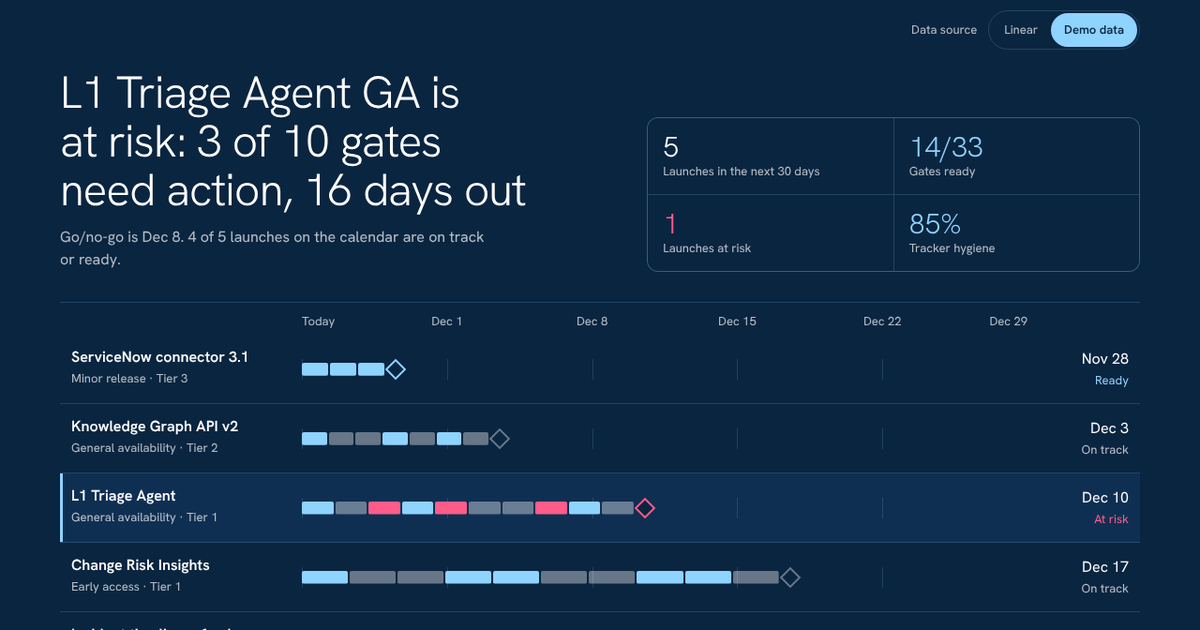
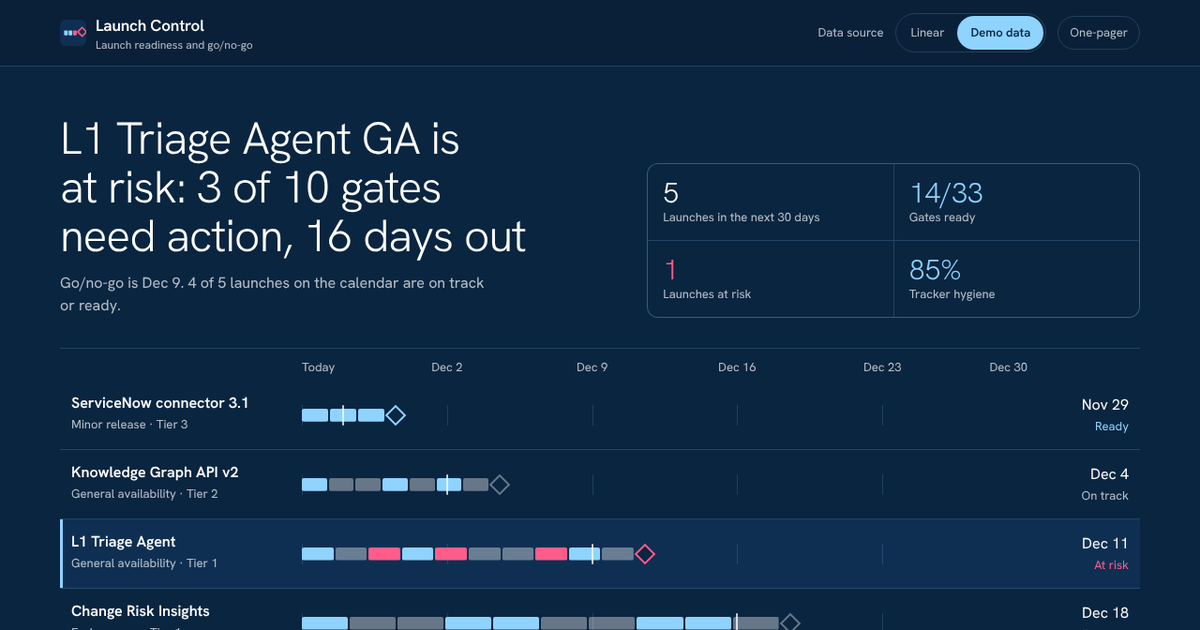
Launch Control: design polish (brand bar, focused gates, alert callout, go/no-go tick, working state)
Claude-Session: https://claude.ai/code/session_013sHT36BU3TUaCrTkGbxy9j

diff --git a/launch-control/components/lc.module.css b/launch-control/components/lc.module.css
@@ -118,3 +118,32 @@
 .alerts{border-top:1px solid var(--edge);margin-top:4px;padding-top:14px}
 .alerts h3{font-size:15px;font-weight:600;margin:0}
 .alerts .fixlist small{font-size:13px;line-height:1.45}
+
+/* Design polish (Nov 25) */
+.topbar{padding:14px max(5vw,16px);border-bottom:1px solid var(--edge);background:rgba(8,30,52,.6)}
+.topin{max-width:1240px;margin:0 auto;display:flex;flex-wrap:wrap;align-items:center;justify-content:space-between;gap:12px 20px}
+.brand{display:flex;align-items:center;gap:10px;color:var(--ink);text-decoration:none}
+.brand svg{width:28px;height:28px;flex:none}
+.brand b{font-size:17px;font-weight:600;letter-spacing:-.01em}
+.brand small{display:block;font-size:12px;line-height:1.2}
+.topright{display:flex;flex-wrap:wrap;align-items:center;gap:8px 12px;font-size:13px;color:var(--mut)}
+.toplink{color:var(--mut);text-decoration:none;border:1px solid var(--edge);border-radius:999px;padding:6px 12px;min-height:36px;display:inline-flex;align-items:center}
+.toplink:hover{color:var(--ink);border-color:var(--sky)}
+.srcbar{margin-bottom:0}
+.alertbox{border:1px solid rgba(255,92,138,.45);background:rgba(255,92,138,.06);border-radius:12px;padding:12px 14px;margin:0 0 16px}
+.alertbox h3{font-size:15px;font-weight:600;margin:0;display:flex;align-items:center;gap:8px}
+.alertbox h3::before{content:"";width:8px;height:8px;border-radius:50%;background:var(--pink)}
+.alertbox .btns{margin:10px 0 0}
+.alertbox .how{margin-top:8px;border-top:0;padding-top:0}
+.collapsedNote{font-size:13px;color:var(--mut);margin:10px 0 0}
+.gng{position:absolute;top:0;width:2px;height:22px;margin-left:-1px;background:rgba(255,255,255,.75);border-radius:1px;pointer-events:none}
+.legend .gngKey{display:inline-block;width:2px;height:12px;background:rgba(255,255,255,.75);margin-right:6px;vertical-align:-1px}
+@media(prefers-reduced-motion:no-preference){
+ .working::after{content:"";display:inline-block;width:8px;height:8px;margin-left:10px;border-radius:50%;background:#0a2540;vertical-align:1px;animation:pulse 1s ease-in-out infinite}
+ @keyframes pulse{0%,100%{opacity:.25;transform:scale(.8)}50%{opacity:1;transform:scale(1.1)}}
+ .trace li{animation:fadein .35s ease-out both}
+ @keyframes fadein{from{opacity:0;transform:translateY(3px)}to{opacity:1;transform:none}}
+ .thinking{animation:breathe 1.4s ease-in-out infinite}
+ @keyframes breathe{0%,100%{opacity:.45}50%{opacity:1}}
+}
+@media(max-width:600px){.brand small{display:none}.gng{height:22px}}

diff --git a/launch-control/components/LaunchControl.tsx b/launch-control/components/LaunchControl.tsx
@@ -454,8 +454,22 @@ export default function LaunchControl() {
 
   return (
     <>
-      <section className={cx('band')}>
-        <div className={cx('wrap')}>
+      <header className={cx('topbar')}>
+        <div className={cx('topin')}>
+        <a className={cx('brand')} href="/" aria-label="Launch Control home">
+          <svg viewBox="0 0 64 64" aria-hidden="true">
+            <rect width="64" height="64" rx="14" fill="#0f2f52" />
+            <rect x="10" y="26" width="9" height="12" rx="2" fill="#8fd3ff" />
+            <rect x="21" y="26" width="9" height="12" rx="2" fill="#8fd3ff" />
+            <rect x="32" y="26" width="9" height="12" rx="2" fill="#ff5c8a" />
+            <rect x="44" y="21" width="15" height="15" transform="rotate(45 51.5 32)" fill="#0f2f52" stroke="#ff5c8a" strokeWidth="3.5" />
+          </svg>
+          <span>
+            <b>Launch Control</b>
+            <small>Launch readiness and go/no-go</small>
+          </span>
+        </a>
+        <div className={cx('topright')}>
           <div className={cx('srcbar')}>
             <span id="src-label">Data source</span>
             <span className={cx('toggle')} role="group" aria-labelledby="src-label">
@@ -473,6 +487,15 @@ export default function LaunchControl() {
             )}
             {source === 'demo' && loading && <span role="status">Loading…</span>}
           </div>
+          <a className={cx('toplink')} href="/one-pager">
+            One-pager
+          </a>
+        </div>
+        </div>
+      </header>
+
+      <section className={cx('band')}>
+        <div className={cx('wrap')}>
           {snap.notice && (
             <p className={cx('notice')} role="status">
               <b>Heads up:</b> {snap.notice}

diff --git a/launch-control/components/GatesPanel.tsx b/launch-control/components/GatesPanel.tsx
@@ -70,7 +70,7 @@ export interface AlertProps {
 function RiskAlerts({ a, launchId }: { a: AlertProps; launchId: string }) {
   const n = a.noTicketGates.length;
   return (
-    <div className={cx('alerts')}>
+    <div className={cx('alertbox')}>
       <h3>Risk alerts</h3>
       <ReviewList
         key={launchId}
@@ -124,9 +124,15 @@ export default function GatesPanel({
       <div className={cx('meter')}>
         <i style={{ width: `${(info.ready / info.n) * 100}%` }} />
       </div>
+      {alerts && <RiskAlerts a={alerts} launchId={L.id} />}
       <div>
         {info.gates.map((g) => (
-          <details key={`${L.id}-${g.gate.key}`} className={cx('gate', g.state)} open={g.state !== 'ready'}>
+          <details
+            key={`${L.id}-${g.gate.key}`}
+            className={cx('gate', g.state)}
+            // Focus on what needs action: open the at-risk gates; if none, open what's in progress.
+            open={info.risk ? g.state === 'risk' : g.state === 'prog'}
+          >
             <summary>
               <span className={cx('dot')} />
               <span className={cx('gn')}>{g.gate.name}</span>
@@ -147,7 +153,9 @@ export default function GatesPanel({
           </details>
         ))}
       </div>
-      {alerts && <RiskAlerts a={alerts} launchId={L.id} />}
+      {info.risk > 0 && info.gates.some((g) => g.state === 'prog') && (
+        <p className={cx('collapsedNote')}>Gates in progress are collapsed so the risks stand out. Open any gate to see its tickets.</p>
+      )}
       <p className={cx('how')}>
         {onCycle
           ? 'Tap a status pill to move an issue along (Backlog → In progress → In review → Done → Blocked). Gates, the calendar and the brief update live.'

diff --git a/launch-control/components/Calendar.tsx b/launch-control/components/Calendar.tsx
@@ -38,6 +38,7 @@ export default function Calendar({
           const L = x.launch;
           const on = L.id === selected;
           const w = (Math.min(Math.max(x.daysOut, 0), AXIS_DAYS) / AXIS_DAYS) * 100;
+          const gng = x.daysOut - 2 > 0 && x.daysOut <= AXIS_DAYS ? ((x.daysOut - 2) / AXIS_DAYS) * 100 : null;
           return (
             <button
               key={L.id}
@@ -60,6 +61,7 @@ export default function Calendar({
                   ))}
                 </span>
                 <span className={cx('mk', x.state)} style={{ left: `${w}%` }} />
+                {gng != null && <span className={cx('gng')} style={{ left: `${gng}%` }} title={`Go/no-go ${fmtDate(x.goNoGo)}`} />}
               </span>
               <span className={cx('dt')}>
                 {fmtDate(L.launchDate)}
@@ -81,6 +83,10 @@ export default function Calendar({
         <span className={cx('risk')}>
           <i />
           At risk or missing
+        </span>
+        <span>
+          <i className={cx('gngKey')} />
+          Go/no-go
         </span>
         <span>
           Each bar runs from today to the launch date and is built from that launch&apos;s gates. Select a launch to

diff --git a/launch-control/components/BriefPanel.tsx b/launch-control/components/BriefPanel.tsx
@@ -95,7 +95,7 @@ export default function BriefPanel({
         <Checks check={brief.check} against={brief.checkedAgainst ?? 'the tracker'} />
       )}
       <div className={cx('btns')}>
-        <button type="button" className={cx('go')} disabled={running} onClick={onRun}>
+        <button type="button" className={cx('go', running && 'working')} disabled={running} onClick={onRun}>
           {running ? 'Agent is reading the tracker…' : agentAvailable ? 'Run readiness agent' : 'Run readiness check'}
         </button>
         <button type="button" className={cx('ghost')} onClick={copy}>
@@ -108,7 +108,11 @@ export default function BriefPanel({
         ))}
       </ul>
       <div className={cx('out')}>
-        {running && !brief.text ? <p>Thinking…</p> : <BriefText text={brief.text} />}
+        {running && !brief.text ? (
+          <p className={cx('thinking')}>Reading the tracker and checking each gate…</p>
+        ) : (
+          <BriefText text={brief.text} />
+        )}
         {brief.kind === 'ai' && brief.stale && (
           <p className={cx('stale')}>Tickets may have changed since this brief. Run the agent again for a fresh read.</p>
         )}

diff --git a/launch-control/scripts/smoke.ts b/launch-control/scripts/smoke.ts
@@ -87,7 +87,7 @@ async function main() {
     await p.waitForTimeout(400);
     await p.click('button:has-text("Review 2 alerts")');
     const items = await p.$$eval('[aria-label="Proposed risk alerts"] li', (e) => e.map((x) => x.textContent ?? ''));
-    await p.click('[class*=alerts] button:has-text("Cancel")');
+    await p.click('[class*=alertbox] button:has-text("Cancel")');
     expect(items.length === 2 && items.every((t) => t.startsWith('Tom') || t.startsWith('Rachel')), `unexpected alerts: ${items.join(' | ')}`);
     return items.map((t) => t.split(' — ')[0].split('Risk alert')[0].trim()).join('; ');
   });

diff --git a/launch-control/DECISIONS.md b/launch-control/DECISIONS.md
@@ -69,3 +69,4 @@ One line per product or technical decision and why. Newest at the bottom.
 | Nov 24 | No repeat alerts: the server skips a ticket that already has a Launch Control alert from the last 24 h; the page hides alerts sent this session | Chasing someone twice in a day erodes trust in the tool. Verified live: a resend was refused with "already alerted in the last 24 h". |
 | Nov 24 | `--clear-comments` (opt-in, dry run by default) deletes only comments that start with the app's alert or nudge prefix | Rehearsals would otherwise make the live send hit the 24 h guard. Deleting data stays a deliberate human step. |
 | Nov 25 | Leave-behind one-pager lives at `/one-pager` on the demo site, dark on screen and a single white page when printed | Same link as the demo, nothing extra to host or send; "Save as PDF" makes the attachment. Impact model shows its assumptions instead of claiming savings. |
+| Nov 25 | Design polish on top of the prototype's look (colours, type and layout unchanged): branded top bar with the data-source switch; only at-risk gates expanded (in-progress ones collapsed, or expanded when nothing is at risk); risk alerts moved to a callout at the top of the gates panel; a go/no-go tick on every calendar bar; a pulsing working state while the agent runs | Fresh-eyes review: the page never said "Launch Control"; the gates panel ran ~1,400 px so the "close the loop" moment sat at the bottom; go/no-go, a core rule, wasn't visible on the calendar; and the agent's best moment showed plain "Thinking…". |
